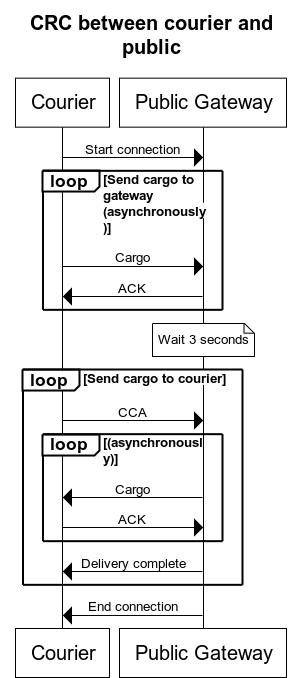
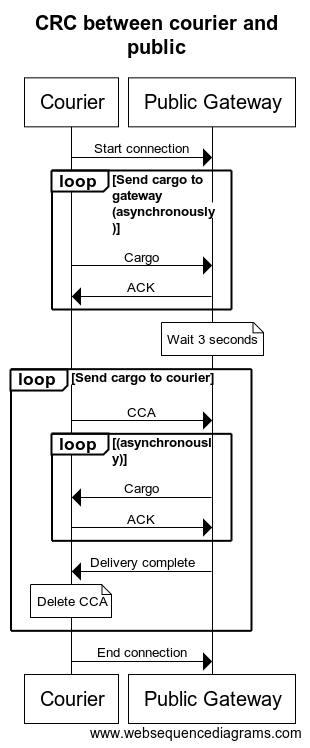
Clarify that the CCA must be destroyed after use

Changed region(s): [[0.0, 0.0, 0.9867, 1.0]]

diff --git a/rs000-core.md b/rs000-core.md
@@ -245,25 +245,27 @@ On the other hand, to establish a CRC between a courier and a public gateway, th
 
 When a CRC is established, the following process should be done sequentially:
 
-1. Any cargo in the courier bound for the current gateway MUST be delivered, and the gateway MUST acknowledge the receipt of each cargo as soon as it is safely stored. Finally, the courier MUST notify the gateway when all cargo has been delivered.
+1. Any cargo in the courier bound for the current gateway MUST be delivered, and the gateway MUST acknowledge the receipt of each cargo as soon as it is safely stored.
 
    How this step is initiated will depend on the type of node acting as the client:
    
    - When the client is a private gateway, it MUST initiate this step by sending one or more CCAs to the courier and the courier MUST then return all the cargo it holds for each gateway, if any. The courier MUST persist those CCAs so it can send them to their respective target gateways when collecting cargo from them in the future.
    - When the client is a courier, it MUST simply deliver the cargo bound for the current gateway, if any.
-   
-   Cargo and CCA messages SHOULD be redelivered one last time when they are not acknowledged within 5 seconds since its delivery.
 1. No further cargoes MUST be exchanged for 3 to 5 seconds to allow sufficient time for the gateway to (a) deliver the parcels contained in the cargo to their corresponding endpoints and (b) collect any new parcels that those endpoints might have automatically produced in response to the parcels they received.
   
    The underlying connection (e.g., a TCP connection) MAY be closed during this time, in which case a new connection will have to be created when resuming this process.
    
    This step SHOULD be skipped when the courier did not deliver any cargo to the gateway in the previous step.
-1. The gateway MUST send to the courier any cargo it wants the courier to relay, and the courier MUST acknowledge the receipt of each cargo as soon as it is safely stored. Finally, the gateway MUST notify the gateway when all cargo has been delivered and then close the underlying connection.
+1. The gateway MUST send to the courier any cargo it wants the courier to relay, and the courier MUST acknowledge the receipt of each cargo as soon as it is safely stored. The client MUST close the underlying connection at the end of this step.
 
    How this step is initiated will depend on the type of node acting as the client:
    
    - When the client is a courier, it MUST initiate this step by sending one or more CCAs to the public gateway and the public gateway MUST then return all the cargo it holds for the gateway of each CCA, if any.
    - When the client is a private gateway, it MUST simply deliver the cargo bound for the current gateway, if any.
+
+When a client sends a CCA, the server MUST notify the client when it is done sending cargo for that CCA, even if no cargo was sent. The client SHOULD resend a CCA one last time when the server does not finish processing it within 5 seconds since the CCA was sent or the last cargo was received, whichever happened last. Couriers MUST NOT reuse CCAs when collecting cargo from a public gateway, so each CCA SHOULD be discarded as soon as the gateway confirms it completed processing it.
+
+Cargoes SHOULD be redelivered one last time when they are not acknowledged within 5 seconds since their delivery.
 
 The following diagram illustrates the binding between a private gateway and a courier:
 
